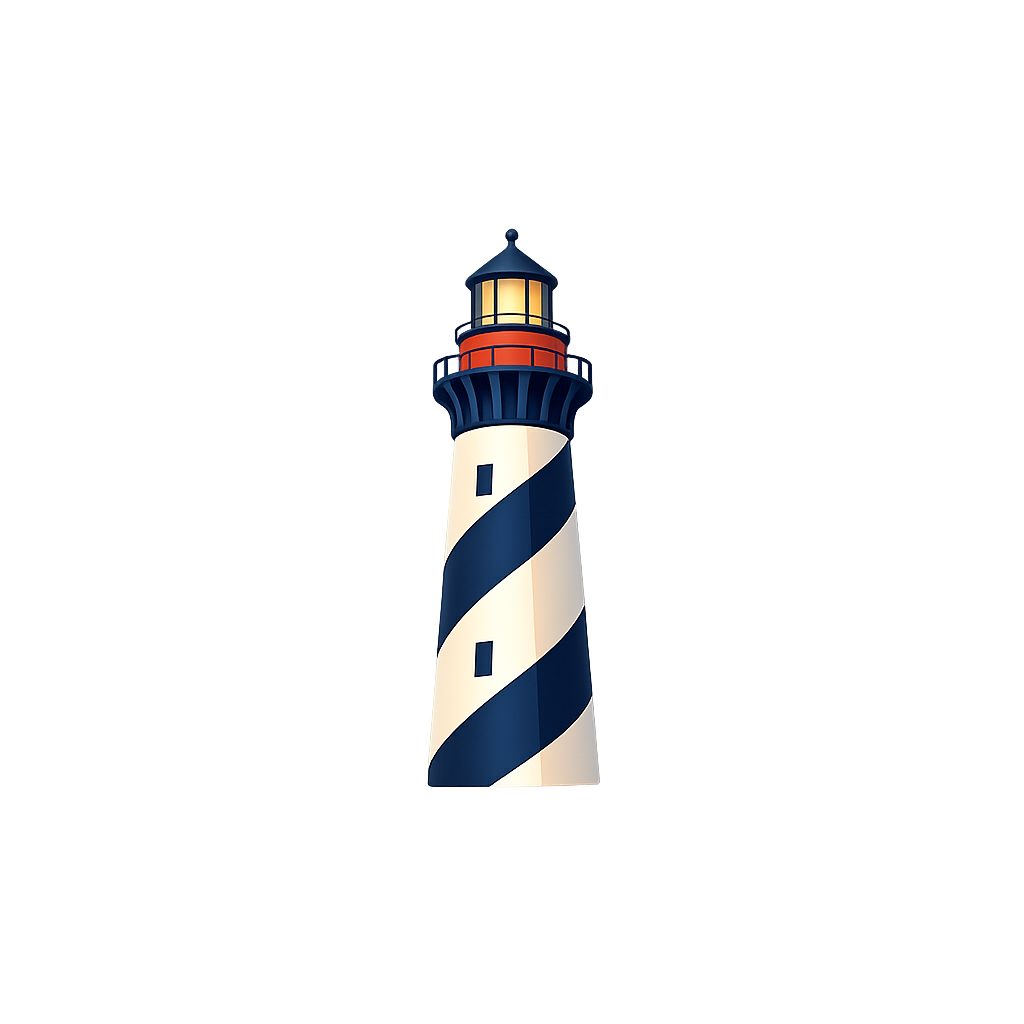
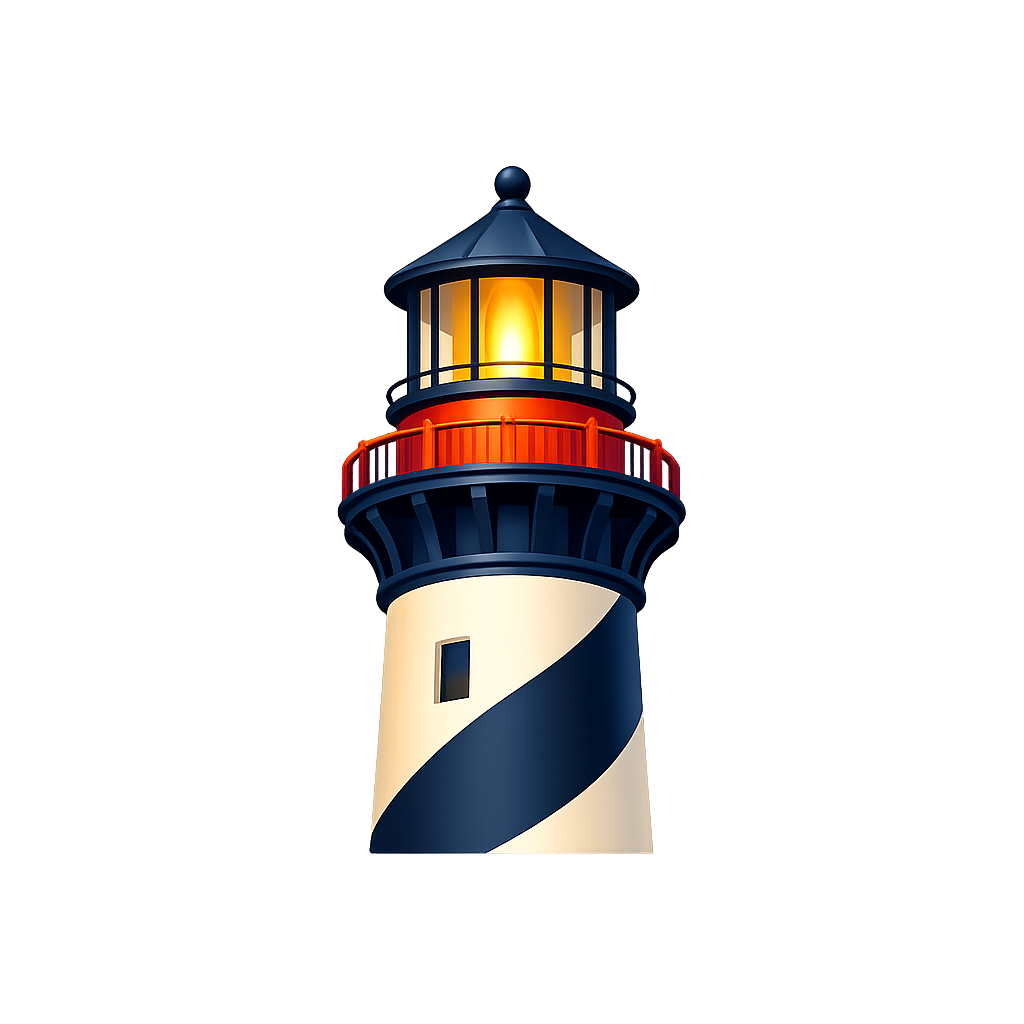
Fixing theme bugs

Changed region(s): [[0.3125, 0.1562, 0.6875, 0.8438]]

diff --git a/Ben.Client/Views/TaskDetailsPage.xaml b/Ben.Client/Views/TaskDetailsPage.xaml
@@ -7,10 +7,10 @@
 
     <Grid Style="{DynamicResource PaperRootGrid}">
 
-        <Grid Padding="16"
+        <Grid Padding="{DynamicResource SpacingLg}"
               HorizontalOptions="Fill"
               RowDefinitions="Auto,*,Auto"
-              RowSpacing="12">
+              RowSpacing="{DynamicResource SpacingMd}">
 
             <!-- Header -->
 
@@ -21,34 +21,19 @@
 
             <!-- Task Details Form -->
 
-            <Grid Grid.Row="1">
-                <Grid.RowDefinitions>
-                    <RowDefinition Height="3"/>
-                    <RowDefinition Height="*"/>
-                    <RowDefinition Height="1"/>
-                </Grid.RowDefinitions>
-                <Grid.ColumnDefinitions>
-                    <ColumnDefinition Width="1"/>
-                    <ColumnDefinition Width="*"/>
-                </Grid.ColumnDefinitions>
+            <Border Grid.Row="1"
+                    Style="{DynamicResource ThemedCard}"
+                    StrokeThickness="{DynamicResource DividerThickness}">
+                <Border.StrokeShape>
+                    <RoundRectangle CornerRadius="{DynamicResource ListCardCornerRadius}"/>
+                </Border.StrokeShape>
 
-                <BoxView Grid.ColumnSpan="2"
-                         HeightRequest="3"
-                         BackgroundColor="{DynamicResource Ink}"/>
-                <BoxView Grid.RowSpan="3"
-                         WidthRequest="1"
-                         BackgroundColor="{DynamicResource Ink}"/>
-
-                <ScrollView Grid.Row="1"
-                            Grid.Column="1"
-                            HorizontalOptions="Fill"
+                <ScrollView HorizontalOptions="Fill"
                             VerticalOptions="Fill">
 
                     <Grid x:Name="TaskDetailsForm"
-                          Grid.Row="1"
-                          Grid.Column="1"
                           BackgroundColor="{DynamicResource WritingPaper}"
-                          Padding="16"
+                          Padding="{DynamicResource SpacingLg}"
                           RowSpacing="10"
                           ColumnSpacing="16">
                         <Grid.RowDefinitions>
@@ -323,36 +308,26 @@
                     </Grid>
 
                 </ScrollView>
-
-                <BoxView Grid.Row="2"
-                         Grid.ColumnSpan="2"
-                         HeightRequest="1"
-                         BackgroundColor="{DynamicResource Ink}"/>
-
-            </Grid>
+            </Border>
 
             <!-- Action buttons -->
 
             <Grid Grid.Row="2"
                   ColumnDefinitions="*,*"
                   ColumnSpacing="12"
-                  Margin="0,16,0,0">
+                  Margin="0,{DynamicResource SpacingMd},0,0">
 
                 <Button Grid.Column="0"
                         Text="Cancel"
                         Clicked="OnCancelClicked"
-                        BackgroundColor="{DynamicResource Ink}"
-                        TextColor="{DynamicResource WritingPaper}"
-                        CornerRadius="4"
+                        Style="{DynamicResource SecondaryActionButton}"
                         HeightRequest="44"/>
 
                 <Button Grid.Column="1"
                         x:Name="SaveButton"
                         Text="Save"
                         Clicked="OnSaveClicked"
-                        BackgroundColor="{DynamicResource Accent}"
-                        TextColor="{DynamicResource WritingPaper}"
-                        CornerRadius="4"
+                        Style="{DynamicResource PrimaryActionButton}"
                         HeightRequest="44"/>
 
             </Grid>

diff --git a/Ben.Client/Views/NoteDetailsPage.xaml b/Ben.Client/Views/NoteDetailsPage.xaml
@@ -6,10 +6,10 @@
 
     <Grid Style="{DynamicResource PaperRootGrid}">
 
-        <Grid Padding="16"
+        <Grid Padding="{DynamicResource SpacingLg}"
               HorizontalOptions="Fill"
               RowDefinitions="Auto,*,Auto"
-              RowSpacing="12">
+              RowSpacing="{DynamicResource SpacingMd}">
 
             <!-- Header -->
             <Label Grid.Row="0"
@@ -18,31 +18,18 @@
                    HorizontalTextAlignment="Center"/>
 
             <!-- Form -->
-            <Grid Grid.Row="1">
-                <Grid.RowDefinitions>
-                    <RowDefinition Height="3"/>
-                    <RowDefinition Height="*"/>
-                    <RowDefinition Height="1"/>
-                </Grid.RowDefinitions>
-                <Grid.ColumnDefinitions>
-                    <ColumnDefinition Width="1"/>
-                    <ColumnDefinition Width="*"/>
-                </Grid.ColumnDefinitions>
+            <Border Grid.Row="1"
+                    Style="{DynamicResource ThemedCard}"
+                    StrokeThickness="{DynamicResource DividerThickness}">
+                <Border.StrokeShape>
+                    <RoundRectangle CornerRadius="{DynamicResource ListCardCornerRadius}"/>
+                </Border.StrokeShape>
 
-                <BoxView Grid.ColumnSpan="2"
-                         HeightRequest="3"
-                         BackgroundColor="{DynamicResource Ink}"/>
-                <BoxView Grid.RowSpan="3"
-                         WidthRequest="1"
-                         BackgroundColor="{DynamicResource Ink}"/>
-
-                <ScrollView Grid.Row="1"
-                            Grid.Column="1"
-                            HorizontalOptions="Fill"
+                <ScrollView HorizontalOptions="Fill"
                             VerticalOptions="Fill">
 
                     <Grid BackgroundColor="{DynamicResource WritingPaper}"
-                          Padding="16"
+                          Padding="{DynamicResource SpacingLg}"
                           RowDefinitions="*,Auto"
                           RowSpacing="8">
 
@@ -59,19 +46,13 @@
                     </Grid>
 
                 </ScrollView>
-
-                <BoxView Grid.Row="2"
-                         Grid.ColumnSpan="2"
-                         HeightRequest="1"
-                         BackgroundColor="{DynamicResource Ink}"/>
-
-            </Grid>
+            </Border>
 
             <!-- Action buttons -->
             <Grid Grid.Row="2"
                   ColumnDefinitions="*,*"
                   ColumnSpacing="12"
-                  Margin="0,16,0,0">
+                  Margin="0,{DynamicResource SpacingMd},0,0">
 
                 <Button Grid.Column="0"
                         Text="Cancel"

diff --git a/Ben.Client/Views/SearchPage.xaml b/Ben.Client/Views/SearchPage.xaml
@@ -5,12 +5,13 @@
              x:Name="RootPage"
              x:Class="Ben.Views.SearchPage"
              x:DataType="views:SearchPage"
+             SafeAreaEdges="All"
              Title="Search Notes">
 
     <Grid Style="{DynamicResource PaperRootGrid}">
         <Grid Padding="{DynamicResource SpacingLg}"
               HorizontalOptions="Fill"
-              RowDefinitions="Auto,*,Auto"
+              RowDefinitions="Auto,Auto,*,Auto"
               RowSpacing="{DynamicResource SpacingMd}">
 
             <Label Grid.Row="0"
@@ -18,7 +19,22 @@
                    Style="{DynamicResource SectionTitle}"
                    HorizontalTextAlignment="Center"/>
 
-            <Border Grid.Row="1"
+            <Grid Grid.Row="1"
+                  ColumnDefinitions="*"
+                  ColumnSpacing="12">
+                <Entry x:Name="SearchEntry"
+                       Grid.Column="0"
+                       Text="{Binding SearchText, Mode=TwoWay}"
+                       Placeholder="Enter text to find in notes"
+                       ReturnType="Search"
+                       Completed="OnSearchSubmitted"
+                       FontFamily="{DynamicResource UserHandwritingFont}"
+                       FontSize="24"
+                       TextColor="{DynamicResource UserText}"
+                       BackgroundColor="Transparent"/>
+            </Grid>
+
+            <Border Grid.Row="2"
                     Style="{DynamicResource ThemedCard}"
                     StrokeThickness="{DynamicResource DividerThickness}">
                 <Border.StrokeShape>
@@ -26,6 +42,7 @@
                 </Border.StrokeShape>
                 <Grid BackgroundColor="{DynamicResource WritingPaper}">
                     <ScrollView Margin="0"
+                                SafeAreaEdges="SoftInput"
                                 BackgroundColor="Transparent">
                         <VerticalStackLayout Spacing="0"
                                              BindableLayout.ItemsSource="{Binding SearchResults}">
@@ -60,26 +77,11 @@
                 </Grid>
             </Border>
 
-            <Grid Grid.Row="2"
-                  RowDefinitions="Auto,Auto"
+            <Grid Grid.Row="3"
+                  RowDefinitions="Auto"
                   RowSpacing="0"
                   Margin="{DynamicResource FooterTopMargin}">
                 <Grid Grid.Row="0"
-                      ColumnDefinitions="*"
-                      ColumnSpacing="12">
-                    <Entry x:Name="SearchEntry"
-                           Grid.Column="0"
-                           Text="{Binding SearchText, Mode=TwoWay}"
-                           Placeholder="Enter text to find in notes"
-                           ReturnType="Search"
-                           Completed="OnSearchSubmitted"
-                           FontFamily="{DynamicResource UserHandwritingFont}"
-                           FontSize="24"
-                           TextColor="{DynamicResource UserText}"
-                           BackgroundColor="Transparent"/>
-                </Grid>
-
-                <Grid Grid.Row="1"
                       ColumnDefinitions="*"
                       ColumnSpacing="{DynamicResource SpacingMd}">
                     <Button Grid.Column="0"

diff --git a/Ben.Client/Views/NotesPageView.xaml b/Ben.Client/Views/NotesPageView.xaml
@@ -1,7 +1,7 @@
 <?xml version="1.0" encoding="utf-8" ?>
 <ContentView xmlns="http://schemas.microsoft.com/dotnet/2021/maui"
              xmlns:x="http://schemas.microsoft.com/winfx/2009/xaml"
-             xmlns:views="clr-namespace:Ben.Views"
+             xmlns:views="clr-namespace:Ben.Views;assembly=Ben.Client"
              xmlns:viewModels="clr-namespace:Ben.ViewModels"
              xmlns:models="clr-namespace:Ben.Models"
              x:Class="Ben.Views.NotesPageView"
@@ -161,7 +161,7 @@
                           ItemsSource="{Binding CurrentDay.Notes}">
                     <ListView.ItemTemplate>
                         <DataTemplate x:DataType="models:NoteItem">
-                            <ViewCell>
+                            <views:AutoSizingViewCell>
                                 <ContentView BackgroundColor="{DynamicResource WritingPaper}">
                                     <Grid ColumnDefinitions="28,*"
                                           RowDefinitions="Auto,1"
@@ -174,14 +174,13 @@
                                         </Grid.GestureRecognizers>
                                         <Label Grid.Column="0"
                                                Text="{Binding Order}"
-                                               HorizontalTextAlignment="End"
+                                               Margin="{OnPlatform iOS='0,2,0,3', Default='0,2,0,3'}"
+                                               HorizontalTextAlignment="Center"
                                                VerticalTextAlignment="Start"
-                                               FontFamily="{DynamicResource ThemeDateDayFont}"
-                                               FontSize="13"
-                                               TextColor="{DynamicResource SecondaryInkBrush}"/>
+                                               Style="{StaticResource Handwriting}"/>
                                         <Label Grid.Column="1"
                                                Text="{Binding Text}"
-                                               Margin="{OnPlatform iOS='0,0,0,3', Default='0,0,0,3'}"
+                                               Margin="{OnPlatform iOS='0,2,0,3', Default='0,2,0,3'}"
                                                LineBreakMode="WordWrap"
                                                HorizontalTextAlignment="Start"
                                                VerticalTextAlignment="Start"
@@ -192,7 +191,7 @@
                                                  VerticalOptions="End"/>
                                     </Grid>
                                 </ContentView>
-                            </ViewCell>
+                            </views:AutoSizingViewCell>
                         </DataTemplate>
                     </ListView.ItemTemplate>
                 </ListView>

diff --git a/Ben.Client/Views/TaskPageView.xaml b/Ben.Client/Views/TaskPageView.xaml
@@ -1,7 +1,7 @@
 <?xml version="1.0" encoding="utf-8" ?>
 <ContentView xmlns="http://schemas.microsoft.com/dotnet/2021/maui"
              xmlns:x="http://schemas.microsoft.com/winfx/2009/xaml"
-             xmlns:views="clr-namespace:Ben.Views"
+             xmlns:views="clr-namespace:Ben.Views;assembly=Ben.Client"
              xmlns:viewModels="clr-namespace:Ben.ViewModels"
              xmlns:models="clr-namespace:Ben.Models"
              x:Class="Ben.Views.TaskPageView"
@@ -152,7 +152,7 @@
                           ItemsSource="{Binding CurrentDay.Tasks}">
                     <ListView.ItemTemplate>
                         <DataTemplate x:DataType="models:TaskItem">
-                            <ViewCell>
+                            <views:AutoSizingViewCell>
                                 <ContentView BackgroundColor="{DynamicResource WritingPaper}">
                                     <Grid ColumnDefinitions="32,38,*"
                                           RowDefinitions="Auto,1"
@@ -171,7 +171,7 @@
                                                FontSize="20"
                                                HeightRequest="24"
                                                WidthRequest="24"
-                                               Margin="{OnPlatform iOS='0,-3,0,3', Default='0,-3,0,3'}"
+                                               Margin="{OnPlatform iOS='0,0,0,3', Default='0,0,0,3'}"
                                                HorizontalOptions="Center"
                                                HorizontalTextAlignment="Center"
                                                VerticalOptions="Start"
@@ -180,7 +180,7 @@
                                                FontAttributes="Bold"/>
 
                                         <Label Grid.Column="1"
-                                               Margin="{OnPlatform iOS='-5,0,-5,3', Default='-5,0,-5,3'}"
+                                               Margin="{OnPlatform iOS='-5,2,-5,3', Default='-5,2,-5,3'}"
                                                Padding="0"
                                                Text="{Binding PriorityOrder}"
                                                LineBreakMode="NoWrap"
@@ -191,7 +191,7 @@
                                                TextColor="{DynamicResource Ink}"/>
 
                                         <Label Grid.Column="2"
-                                               Margin="{OnPlatform iOS='0,0,0,3', Default='0,0,0,3'}"
+                                               Margin="{OnPlatform iOS='0,2,0,3', Default='0,2,0,3'}"
                                                Padding="0"
                                                LineBreakMode="WordWrap"
                                                HorizontalTextAlignment="Start"
@@ -214,7 +214,7 @@
                                                  VerticalOptions="End"/>
                                     </Grid>
                                 </ContentView>
-                            </ViewCell>
+                            </views:AutoSizingViewCell>
                         </DataTemplate>
                     </ListView.ItemTemplate>
                 </ListView>

diff --git a/Ben.Client/Views/AutoSizingViewCell.cs b/Ben.Client/Views/AutoSizingViewCell.cs
@@ -1,0 +1,50 @@
+using System.ComponentModel;
+using Microsoft.Maui.ApplicationModel;
+using Microsoft.Maui.Devices;
+
+namespace Ben.Views;
+
+public class AutoSizingViewCell : ViewCell
+{
+    INotifyPropertyChanged? _notifyingContext;
+
+    protected override void OnBindingContextChanged()
+    {
+        Unsubscribe(_notifyingContext);
+
+        base.OnBindingContextChanged();
+
+        _notifyingContext = BindingContext as INotifyPropertyChanged;
+        Subscribe(_notifyingContext);
+    }
+
+    void Subscribe(INotifyPropertyChanged? notifyingContext)
+    {
+        if (notifyingContext == null)
+        {
+            return;
+        }
+
+        notifyingContext.PropertyChanged += OnBoundItemPropertyChanged;
+    }
+
+    void Unsubscribe(INotifyPropertyChanged? notifyingContext)
+    {
+        if (notifyingContext == null)
+        {
+            return;
+        }
+
+        notifyingContext.PropertyChanged -= OnBoundItemPropertyChanged;
+    }
+
+    void OnBoundItemPropertyChanged(object? sender, PropertyChangedEventArgs e)
+    {
+        if (DeviceInfo.Platform != DevicePlatform.iOS)
+        {
+            return;
+        }
+
+        MainThread.BeginInvokeOnMainThread(ForceUpdateSize);
+    }
+}